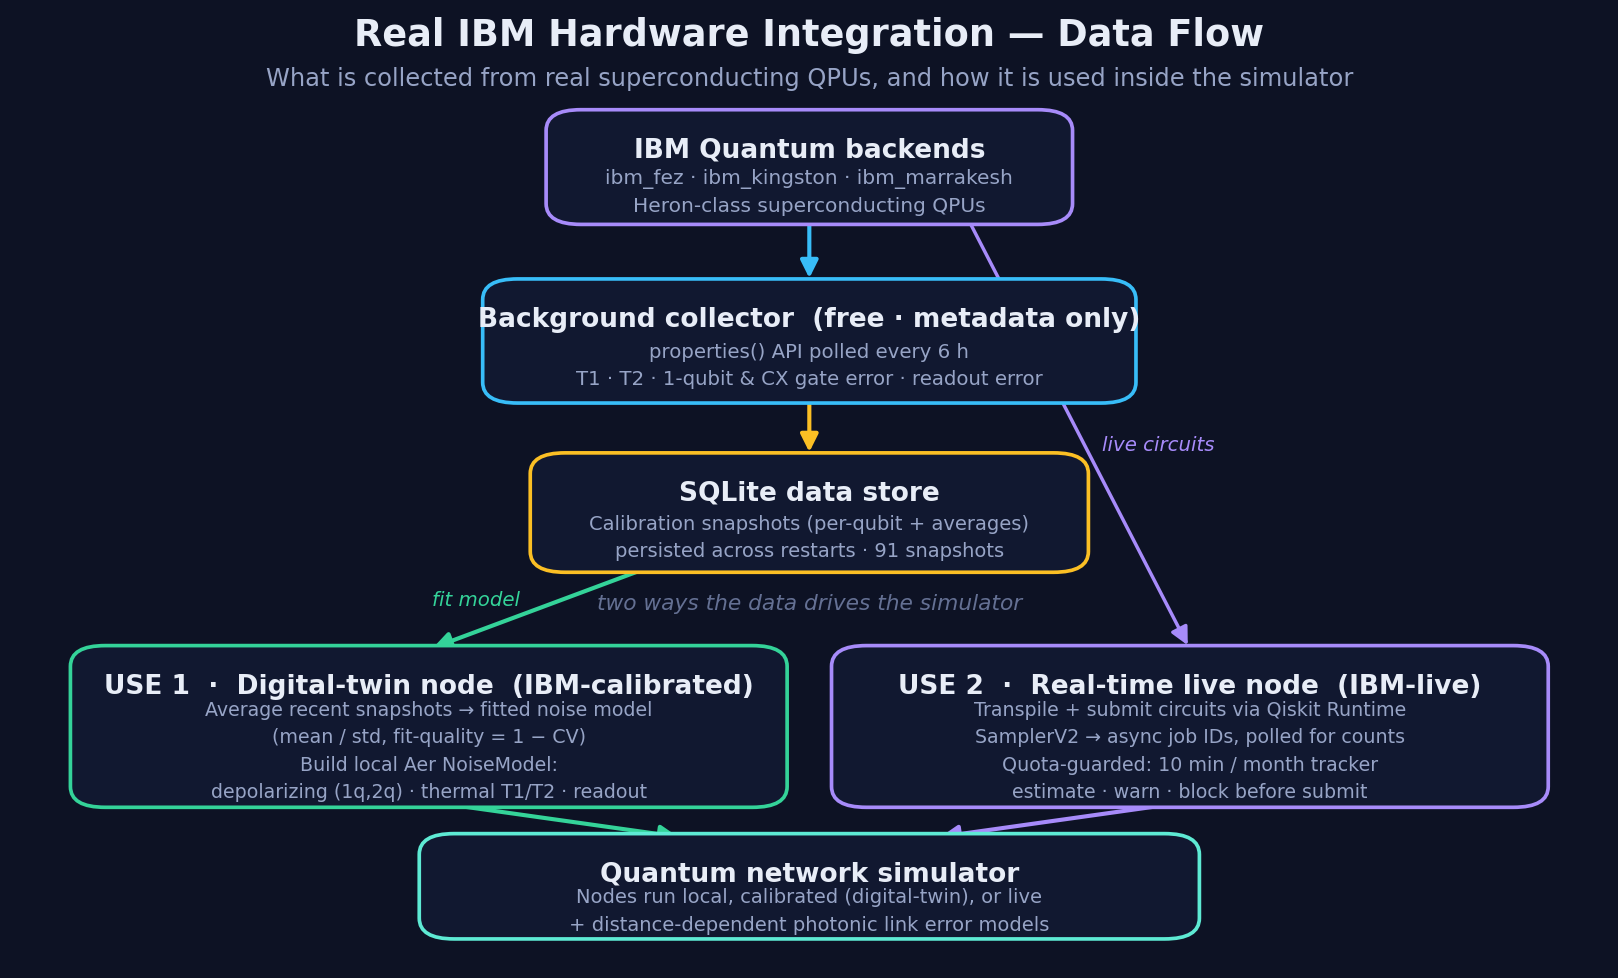
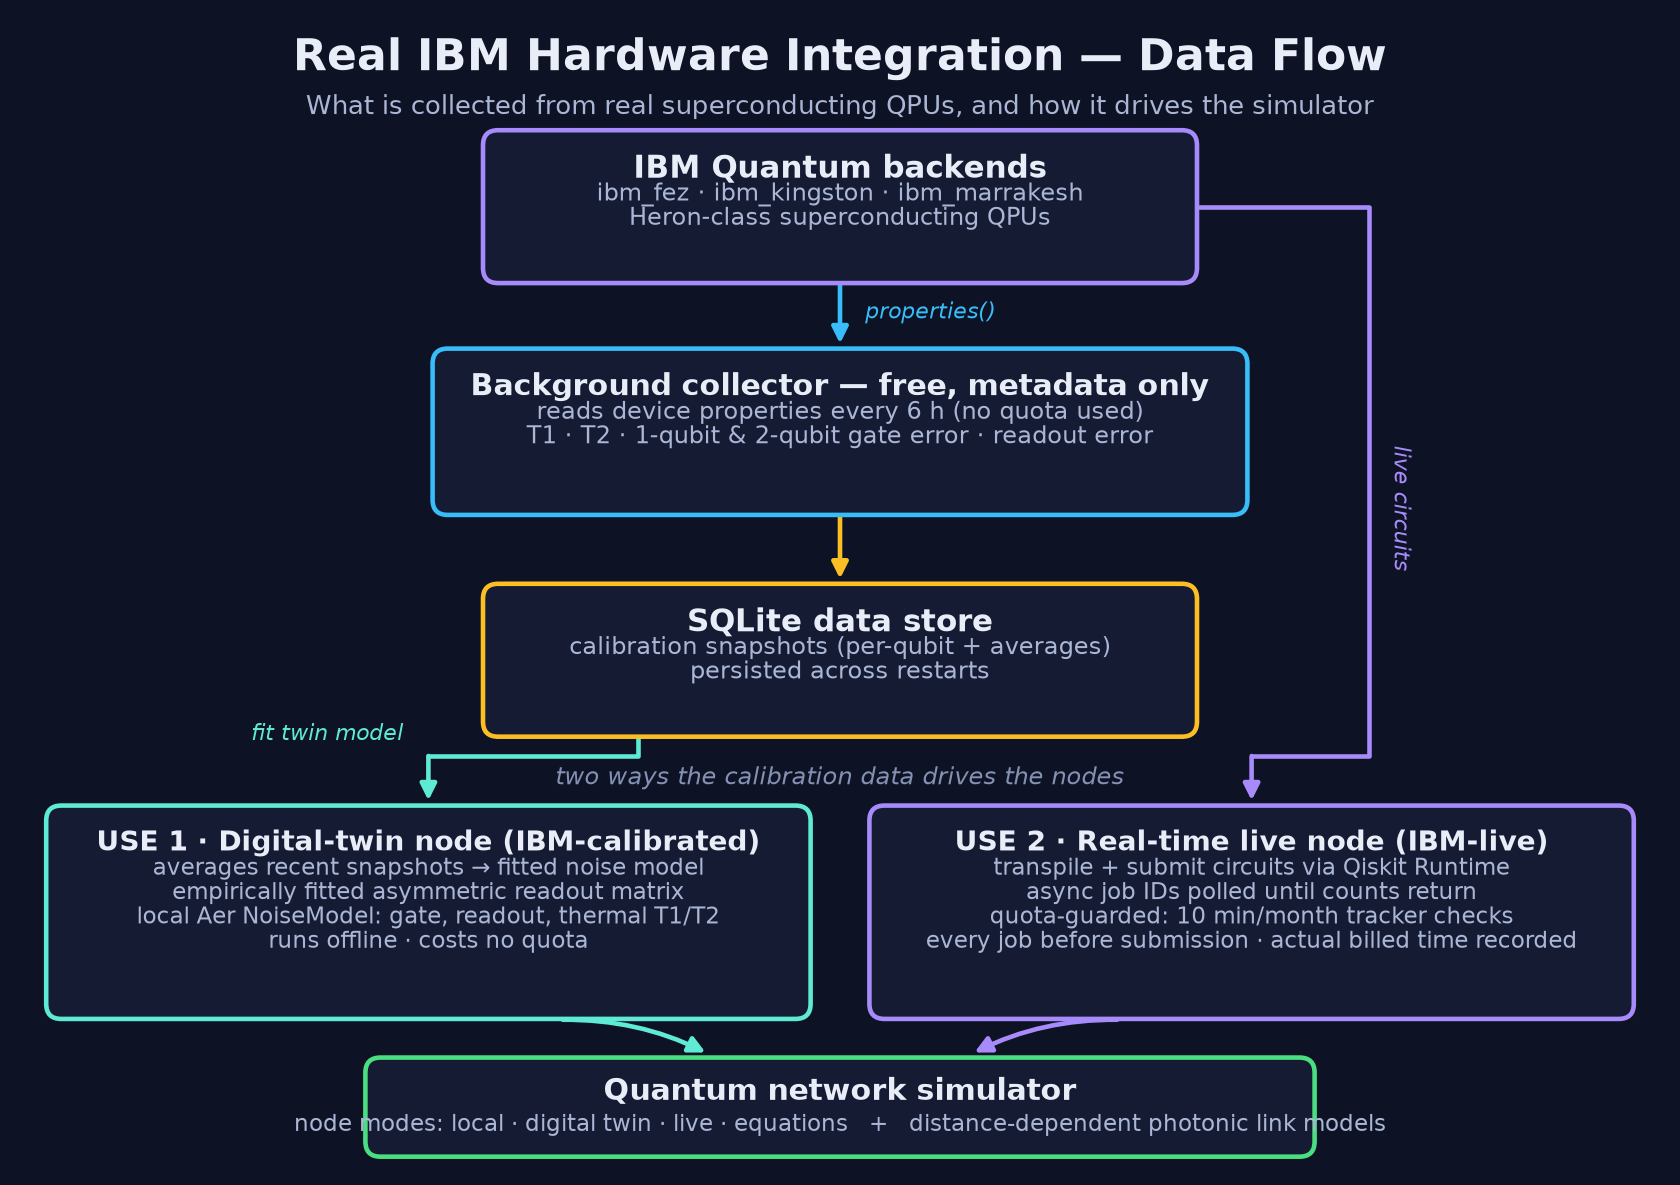
Refresh simulator section: fixed diagrams, full equations, three-mode results
- sim_ibm_flow.png: reroute the live-circuits line around (not through) the
  collector box; add the equations mode and actual-billed-time tracking.
- sim_architecture.png: four node modes (equations was missing), full names
  instead of bare abbreviations, and a glossary strip (QPU, Aer, T1/T2,
  BB84, 1550 nm, dB/km).
- Channel equations: all seven closed-form channels + composition, with a
  symbol/defaults table and an assumptions-and-limits note, matching
  docs/link-error-model.md in the simulator repo.
- New flagship results section: the July 2026 paragraph experiment on real
  ibm_marrakesh hardware vs digital twin vs equations — sent and decoded
  message, per-stage BER table and charts, and the 9-page PDF report.
- Accuracy pass: error taxonomy realigned to the app-wide node/link split
  (4 node + 8 link channels), calibration table and chart refreshed from
  the live store (old gate errors were ~100x too high), six dashboard tabs
  instead of three workspaces, data counts 296 snapshots / 313 models.

Changed region(s): [[0.0, 0.0, 0.9889, 0.9816], [0.7108, 0.1227, 0.8035, 0.2147]]

diff --git a/index.html b/index.html
@@ -262,6 +262,19 @@
   .use-card li b{color:var(--text);font-weight:700}
   .use-card code{font-family:'JetBrains Mono',monospace;font-size:12px;color:var(--brand);background:rgba(94,234,212,.08);padding:1px 6px;border-radius:5px}
 
+  /* experiment message flow */
+  .msg-flow{display:flex;flex-direction:column;gap:0;margin:0 0 22px}
+  .msg-card{background:var(--panel);border:1px solid var(--border-2);border-radius:14px;padding:18px 22px}
+  .msg-card .mh{display:flex;align-items:center;gap:10px;font-size:12px;font-weight:700;letter-spacing:.05em;text-transform:uppercase;margin-bottom:10px}
+  .msg-card.sent .mh{color:var(--brand-2)}
+  .msg-card.recv .mh{color:#4ade80}
+  .msg-card .mtext{font-family:'JetBrains Mono',monospace;font-size:14.5px;line-height:1.65;color:var(--text)}
+  .msg-card .mmeta{margin-top:10px;color:var(--faint);font-size:12.5px}
+  .msg-badge{display:inline-flex;align-items:center;gap:6px;font-size:11.5px;font-weight:700;padding:3px 10px;border-radius:999px;background:rgba(74,222,128,.12);border:1px solid rgba(74,222,128,.35);color:#4ade80;letter-spacing:.03em}
+  .msg-hop{display:flex;align-items:center;gap:12px;justify-content:center;padding:10px 0;color:var(--muted);font-size:13px}
+  .msg-hop .hopline{flex:0 0 26px;height:22px;border-left:2px dashed var(--border-2);margin-left:40px}
+  .msg-hop .hoptxt b{color:var(--text)}
+
   /* collected-data chips */
   .collect{display:grid;grid-template-columns:repeat(3,1fr);gap:14px;margin-top:6px}
   .collect .ci{background:var(--panel);border:1px solid var(--border);border-radius:12px;padding:16px 18px}
@@ -475,7 +488,7 @@
     <div class="split rev reveal" style="margin-bottom:46px">
       <div>
         <div class="clist">
-          <div class="citem"><span class="ck sim-k">N</span><div><h4>Nodes — superconducting QPUs</h4><p>Three backend modes: pure local Aer, <em>IBM-calibrated</em> (driven by real T1/T2 &amp; gate-error snapshots), and live IBM hardware submission.</p></div></div>
+          <div class="citem"><span class="ck sim-k">N</span><div><h4>Nodes — superconducting QPUs</h4><p>Four interchangeable node-error modes: pure local Aer, <em>digital twin</em> (fitted from real T1/T2 &amp; gate-error history), <em>equations</em> (rates derived from device physics), and live IBM hardware submission.</p></div></div>
           <div class="citem"><span class="ck sim-k">L</span><div><h4>Links — photonic channels</h4><p>Each link carries its own distance-dependent channel error model for fiber or free-space transmission.</p></div></div>
           <div class="citem"><span class="ck sim-k">E</span><div><h4>Custom error models</h4><p>Seven physical error types: fiber attenuation, polarization drift, phase noise, timing jitter, dark counts, environmental decoherence, chromatic dispersion.</p></div></div>
           <div class="citem"><span class="ck sim-k">P</span><div><h4>Protocols</h4><p>Entanglement distribution, quantum teleportation, BB84 QKD, and distance-sweep fidelity analysis.</p></div></div>
@@ -493,11 +506,11 @@
 
     <!-- What you can do -->
     <div class="subhead reveal"><span class="lbl">Capabilities</span><h3>What you can do with the simulator</h3><span class="ln"></span></div>
-    <p class="lead reveal" style="margin:-8px 0 26px">The simulator ships with a no-code web dashboard organised into three workspaces — <b>Simulate</b>, <b>Network</b>, and <b>IBM &amp; Data</b> — so an experiment can be configured, run, and analysed entirely from the browser.</p>
+    <p class="lead reveal" style="margin:-8px 0 26px">The simulator ships with a no-code web dashboard organised into six tabs — <b>Simulate</b>, <b>Visualization</b>, <b>Network</b>, <b>IBM Monitor</b>, <b>Digital Twin</b>, and <b>Data</b> — so an experiment can be configured, run, and analysed entirely from the browser.</p>
     <div class="feat-grid">
       <div class="card feat reveal">
         <div class="ic"><svg viewBox="0 0 24 24"><rect x="3" y="4" width="18" height="14" rx="2"/><path d="M3 9h18M8 21h8"/></svg></div>
-        <h3>No-code dashboard</h3><p>Configure, run, and visualise experiments from three workspaces — Simulate, Network, and IBM &amp; Data — no scripting required.</p>
+        <h3>No-code dashboard</h3><p>Configure, run, and visualise experiments from six tabs — including a live TensorFlow-Playground-style animation of a qubit crossing the link — no scripting required.</p>
       </div>
       <div class="card feat reveal">
         <div class="ic"><svg viewBox="0 0 24 24"><path d="M4 6h16M4 12h16M4 18h10"/><circle cx="18" cy="18" r="2"/></svg></div>
@@ -525,7 +538,7 @@
     <div class="subhead reveal"><span class="lbl">Architecture</span><h3>System architecture</h3><span class="ln"></span></div>
     <figure class="fig fig-wide reveal">
       <img src="assets/sim_architecture.png" alt="Quantum network simulator architecture diagram" loading="lazy" />
-      <figcaption><b>Two-layer design.</b> Each <b>node</b> runs in one of three modes — local Aer, IBM-calibrated (real T₁/T₂ and gate-error snapshots), or live IBM hardware — while each <b>link</b> applies a distance-dependent photonic channel model. Protocols run over the node–link pair; results and fitted models are persisted to a SQLite store and fed back into node/channel generation.</figcaption>
+      <figcaption><b>Two-layer design.</b> Each <b>node</b> runs in one of four modes — local Aer, digital twin (fitted from real calibration history), live IBM hardware, or pure equations — while each <b>link</b> applies a distance-dependent photonic channel model. Protocols run over the node–link pair; results and fitted models are persisted to a SQLite store and fed back into node/channel generation. Unfamiliar terms are spelled out in the glossary strip at the bottom of the diagram.</figcaption>
     </figure>
 
     <!-- Error taxonomy by layer -->
@@ -533,64 +546,99 @@
     <p class="lead reveal" style="margin:-8px 0 26px">Errors are organised into two layers. <b>Node-level</b> errors act on local operations at each endpoint; <b>channel-level</b> errors act during transmission and scale with distance. Every error is implemented as a Qiskit quantum channel.</p>
 
     <div class="taxo-wrap reveal" style="margin-bottom:22px">
-      <div class="taxo-head"><span class="lb node">Node layer</span><span class="h">Local operation errors</span><span class="c">applied at Alice / Bob</span></div>
+      <div class="taxo-head"><span class="lb node">Node layer</span><span class="h">Processor errors at each endpoint</span><span class="c">4 built-in types · applied at Alice / Bob</span></div>
       <table class="taxo">
         <thead><tr><th>Error type</th><th>Physical cause</th><th>Quantum channel</th></tr></thead>
         <tbody>
-          <tr><td class="nm">Gate imperfection</td><td>Control-pulse imperfections in single-qubit gates</td><td><span class="ch">depolarizing</span></td></tr>
-          <tr><td class="nm">Two-qubit crosstalk</td><td>Unwanted interactions during CNOT / CZ / SWAP</td><td><span class="ch">depolarizing</span></td></tr>
-          <tr><td class="nm">Qubit memory decoherence</td><td>Phase loss while idling in quantum memory</td><td><span class="ch">phase damping</span></td></tr>
-          <tr><td class="nm">Measurement error</td><td>Detector imperfections at readout (mostly bit-flip)</td><td><span class="ch">Pauli (X/Y/Z)</span></td></tr>
-          <tr><td class="nm">Timing jitter</td><td>Detection-timing uncertainty → loss of coherence</td><td><span class="ch">dephasing (Z)</span></td></tr>
-          <tr><td class="nm">Detector dark counts</td><td>Thermal false-positive detections</td><td><span class="ch">bit flip</span></td></tr>
-          <tr><td class="nm">Environmental decoherence</td><td>Temperature-dependent T₁ / T₂ decay</td><td><span class="ch">thermal relaxation</span></td></tr>
+          <tr><td class="nm">1-qubit gate error</td><td>Control-pulse imperfections in single-qubit gates</td><td><span class="ch">depolarizing</span></td></tr>
+          <tr><td class="nm">2-qubit gate error</td><td>Unwanted interactions during CX / CZ / SWAP</td><td><span class="ch">depolarizing</span></td></tr>
+          <tr><td class="nm">Readout error</td><td>Misassigned measurement outcomes (real devices misread |1⟩ more often than |0⟩)</td><td><span class="ch">assignment matrix</span></td></tr>
+          <tr><td class="nm">Thermal relaxation</td><td>T₁ / T₂ decay while a qubit idles (T₂ ≤ 2T₁ enforced)</td><td><span class="ch">thermal relaxation</span></td></tr>
         </tbody>
       </table>
     </div>
 
     <div class="taxo-wrap reveal">
-      <div class="taxo-head"><span class="lb chan">Channel layer</span><span class="h">Transmission / link errors</span><span class="c">distance-dependent</span></div>
+      <div class="taxo-head"><span class="lb chan">Link layer</span><span class="h">Transmission / channel errors</span><span class="c">8 built-in types · distance-dependent</span></div>
       <table class="taxo">
         <thead><tr><th>Error type</th><th>Physical cause</th><th>Quantum channel</th><th>Distance scaling</th></tr></thead>
         <tbody>
-          <tr><td class="nm">Fiber attenuation</td><td>Photon absorption &amp; scattering (~0.2 dB/km)</td><td><span class="ch">amplitude damping</span></td><td class="sc">exponential loss</td></tr>
-          <tr><td class="nm">Polarization drift</td><td>Stress-induced birefringence in fiber</td><td><span class="ch">Pauli / depolarizing</span></td><td class="sc">linear</td></tr>
+          <tr><td class="nm">Fiber attenuation</td><td>Photon absorption &amp; scattering (0.2 dB/km)</td><td><span class="ch">amplitude damping</span></td><td class="sc">exponential loss</td></tr>
+          <tr><td class="nm">Photon loss</td><td>Combined fiber loss and detector inefficiency</td><td><span class="ch">amplitude damping</span></td><td class="sc">exponential</td></tr>
+          <tr><td class="nm">Polarization drift</td><td>Stress-induced birefringence in fiber</td><td><span class="ch">Pauli (X/Y/Z)</span></td><td class="sc">linear</td></tr>
           <tr><td class="nm">Phase noise</td><td>Path-length &amp; thermal fluctuations</td><td><span class="ch">phase damping</span></td><td class="sc">linear (× T)</td></tr>
-          <tr><td class="nm">Chromatic dispersion</td><td>Wavelength-dependent propagation velocity</td><td><span class="ch">dephasing</span></td><td class="sc">linear</td></tr>
-          <tr><td class="nm">Splice / connector loss</td><td>Photon loss at fiber joints (~0.1 / km)</td><td><span class="ch">amplitude damping</span></td><td class="sc">per splice</td></tr>
-          <tr><td class="nm">WDM crosstalk</td><td>Leakage from adjacent wavelength channels</td><td><span class="ch">depolarizing</span></td><td class="sc">constant</td></tr>
-          <tr><td class="nm">Quantum repeater noise</td><td>Noise added at repeater stations</td><td><span class="ch">depolarizing</span></td><td class="sc">per repeater</td></tr>
-          <tr><td class="nm">Atmospheric turbulence</td><td>Free-space phase noise (satellite / wireless)</td><td><span class="ch">phase damping</span></td><td class="sc">exponential</td></tr>
+          <tr><td class="nm">Timing jitter</td><td>Detection-timing uncertainty → loss of coherence</td><td><span class="ch">dephasing (Z)</span></td><td class="sc">constant (× jitter)</td></tr>
+          <tr><td class="nm">Chromatic dispersion</td><td>Wavelength-dependent propagation velocity broadens pulses</td><td><span class="ch">dephasing</span></td><td class="sc">quadratic, saturating</td></tr>
+          <tr><td class="nm">Detector dark counts</td><td>Thermal false-positive detections</td><td><span class="ch">bit flip</span></td><td class="sc">constant</td></tr>
+          <tr><td class="nm">Environmental decoherence</td><td>Temperature-degraded T₁ / T₂ over the transit time</td><td><span class="ch">thermal relaxation</span></td><td class="sc">linear (transit time)</td></tr>
         </tbody>
       </table>
     </div>
-    <p class="taxo-note reveal">All error types are built on five primitive channels — <code>pauli</code>, <code>depolarizing</code>, <code>amplitude_damping</code>, <code>phase_damping</code>, <code>thermal_relaxation</code> — and users can define additional custom errors at either layer with their own probability and distance scaling (<code>linear</code>, <code>exponential</code>, <code>constant</code>, per-splice, or per-repeater).</p>
+    <p class="taxo-note reveal">This node/link split is the app-wide taxonomy: every chart, comparison, and report categorises errors the same way. All types are built on five primitive channels — <code>pauli</code>, <code>depolarizing</code>, <code>amplitude_damping</code>, <code>phase_damping</code>, <code>thermal_relaxation</code> — and users can define additional custom errors at either layer (splice loss, WDM crosstalk, repeater noise, an eavesdropper model, …) with their own probability and distance scaling (<code>linear</code>, <code>exponential</code>, <code>constant</code>, per-splice, or per-repeater), from the UI or a config file.</p>
 
     <!-- Error-model equations -->
     <div class="subhead reveal"><span class="lbl">Error models</span><h3>Channel error-model equations</h3><span class="ln"></span></div>
-    <p class="lead reveal" style="margin:-8px 0 26px">Every link error is a physically-motivated quantum channel whose strength scales with distance, temperature, and hardware parameters. These are the exact models implemented in the simulator.</p>
+    <p class="lead reveal" style="margin:-8px 0 26px">Every link error is a physically-motivated quantum channel whose strength is an explicit, closed-form function of the link's physical parameters. These are the exact expressions implemented in the simulator — no hidden fitting; change a parameter and every probability follows.</p>
+
+    <div class="tbl-wrap reveal" style="margin-bottom:22px">
+      <table class="cal">
+        <thead><tr><th>Symbol</th><th>Physical parameter</th><th>Default</th><th>Meaning</th></tr></thead>
+        <tbody>
+          <tr><td class="qpu">L</td><td style="text-align:left">distance_km</td><td class="mono">50 km</td><td style="text-align:left">Link length</td></tr>
+          <tr><td class="qpu">α</td><td style="text-align:left">fiber_loss_db_per_km</td><td class="mono">0.2 dB/km</td><td style="text-align:left">Attenuation of telecom fiber at 1550 nm</td></tr>
+          <tr><td class="qpu">η<sub>d</sub></td><td style="text-align:left">detector_efficiency</td><td class="mono">0.9</td><td style="text-align:left">Single-photon detector efficiency</td></tr>
+          <tr><td class="qpu">p<sub>dark</sub></td><td style="text-align:left">dark_count_rate</td><td class="mono">10⁻⁶</td><td style="text-align:left">False-detection probability per window</td></tr>
+          <tr><td class="qpu">j</td><td style="text-align:left">timing_jitter_ns</td><td class="mono">50 ns</td><td style="text-align:left">Detector timing uncertainty</td></tr>
+          <tr><td class="qpu">T<sub>K</sub></td><td style="text-align:left">temperature_k</td><td class="mono">300 K</td><td style="text-align:left">Operating temperature</td></tr>
+          <tr><td class="qpu">r</td><td style="text-align:left">polarization_drift_rate</td><td class="mono">0.002 /km</td><td style="text-align:left">Polarization drift per kilometre</td></tr>
+        </tbody>
+        <caption>The seven physical inputs. Every channel probability below is derived from these — they are the only knobs.</caption>
+      </table>
+    </div>
+
     <div class="eq-grid">
       <div class="eq-card reveal">
-        <div class="eq-t"><span class="dot" style="background:var(--c-mine)"></span>Fiber attenuation &amp; amplitude damping</div>
-        <div class="eq-math">$$\eta(L)=10^{-\alpha L/10},\qquad p_\text{loss}=1-\eta\,\eta_\text{det}$$ $$\gamma_\text{eff}=\min\!\left(0.5,\ 0.3\sqrt{p_\text{loss}}\right)$$ $$K_0=\begin{pmatrix}1&0\\[2pt]0&\sqrt{1-\gamma_\text{eff}}\end{pmatrix},\ K_1=\begin{pmatrix}0&\sqrt{\gamma_\text{eff}}\\[2pt]0&0\end{pmatrix}$$</div>
-        <div class="eq-d">Photon survival through single-mode fiber, with an effective amplitude-damping channel on received qubits. <code>α = 0.2 dB/km</code>, <code>η_det = 0.9</code>.</div>
+        <div class="eq-t"><span class="dot" style="background:var(--c-mine)"></span>1 · Fiber attenuation → amplitude damping</div>
+        <div class="eq-math">$$T=10^{-\alpha L/10},\qquad p_\text{loss}=1-T\,\eta_d$$ $$\gamma_\text{eff}=\min\!\left(0.5,\ 0.3\sqrt{p_\text{loss}}\right)$$ $$K_0=\begin{pmatrix}1&0\\[2pt]0&\sqrt{1-\gamma_\text{eff}}\end{pmatrix},\ K_1=\begin{pmatrix}0&\sqrt{\gamma_\text{eff}}\\[2pt]0&0\end{pmatrix}$$</div>
+        <div class="eq-d">Beer–Lambert survival through single-mode fiber. Photon loss in a real network is <em>heralded</em> (a lost photon is a missed detection, not a wrong bit), so an <em>effective</em> amplitude-damping channel with Kraus operators K₀, K₁ is applied to the qubits that do arrive.</div>
       </div>
       <div class="eq-card reveal">
-        <div class="eq-t"><span class="dot" style="background:var(--c-survey)"></span>Polarization drift (depolarizing)</div>
+        <div class="eq-t"><span class="dot" style="background:var(--c-survey)"></span>2 · Polarization drift → Pauli channel</div>
         <div class="eq-math">$$p_\text{pol}=\min\!\left(0.5,\ r\,L\right)$$ $$\mathcal{E}(\rho)=(1-p_\text{pol})\,\rho+\frac{p_\text{pol}}{3}\big(X\rho X+Y\rho Y+Z\rho Z\big)$$</div>
-        <div class="eq-d">Stress-induced birefringence rotates polarization with distance, modeled as symmetric Pauli noise. Drift rate <code>r = 0.002 /km</code>.</div>
+        <div class="eq-d">Stress-induced birefringence rotates polarization as the photon travels, modeled as symmetric Pauli noise (equal X, Y, Z probability) growing linearly with distance and clamped at ½ (fully mixed).</div>
       </div>
       <div class="eq-card reveal">
-        <div class="eq-t"><span class="dot" style="background:var(--brand-2)"></span>Phase noise (phase damping)</div>
-        <div class="eq-math">$$\lambda=\min\!\left(0.3,\ \kappa\,T\,L\right)$$ $$K_0=\begin{pmatrix}1&0\\[2pt]0&\sqrt{1-\lambda}\end{pmatrix},\ K_1=\begin{pmatrix}0&0\\[2pt]0&\sqrt{\lambda}\end{pmatrix}$$</div>
-        <div class="eq-d">Loss of phase coherence growing with temperature and distance. <code>κ = 10⁻⁶ /(K·km)</code>, <code>T = 300 K</code>.</div>
+        <div class="eq-t"><span class="dot" style="background:var(--brand-2)"></span>3 · Phase noise → phase damping</div>
+        <div class="eq-math">$$\lambda=\min\!\left(0.3,\ 10^{-6}\,T_K\,L\right)$$ $$K_0=\begin{pmatrix}1&0\\[2pt]0&\sqrt{1-\lambda}\end{pmatrix},\ K_1=\begin{pmatrix}0&0\\[2pt]0&\sqrt{\lambda}\end{pmatrix}$$</div>
+        <div class="eq-d">Path-length and thermal fluctuations destroy phase coherence without flipping the bit value — growing with both temperature and distance.</div>
       </div>
       <div class="eq-card reveal">
-        <div class="eq-t"><span class="dot" style="background:var(--c-sim)"></span>Timing jitter &amp; thermal relaxation</div>
-        <div class="eq-math">$$p_z=\min\!\left(0.2,\ 10^{-5}\,\tau_j\right),\quad \mathcal{E}(\rho)=(1-p_z)\rho+p_z\,Z\rho Z$$ $$T_2\le 2T_1,\qquad p_\text{err}=1-e^{-t/T_1}$$</div>
-        <div class="eq-d">Detector timing uncertainty causes pure dephasing; environmental decoherence uses combined T₁/T₂ relaxation. <code>τⱼ = 50 ns</code>.</div>
+        <div class="eq-t"><span class="dot" style="background:var(--c-sim)"></span>4 · Timing jitter → dephasing</div>
+        <div class="eq-math">$$p_Z=\min\!\left(0.2,\ 10^{-5}\,j\right)$$ $$\mathcal{E}(\rho)=(1-p_Z)\,\rho+p_Z\,Z\rho Z$$</div>
+        <div class="eq-d">Uncertainty in <em>when</em> the photon is detected translates into pure dephasing. Depends on the detector's jitter <code>j</code>, not on distance.</div>
+      </div>
+      <div class="eq-card reveal">
+        <div class="eq-t"><span class="dot" style="background:#f472b6"></span>5 · Detector dark counts → bit flip</div>
+        <div class="eq-math">$$\mathcal{E}(\rho)=(1-p_\text{dark})\,\rho+p_\text{dark}\,X\rho X$$</div>
+        <div class="eq-d">A thermal false click registers the wrong outcome — a bit-flip channel with the detector's dark-count probability, independent of distance.</div>
+      </div>
+      <div class="eq-card reveal">
+        <div class="eq-t"><span class="dot" style="background:var(--c-survey)"></span>6 · Environmental decoherence → thermal relaxation</div>
+        <div class="eq-math">$$\tau=\tfrac{T_K}{300},\quad T_1=\tfrac{100\,\mu s}{\tau},\quad T_2=\min\!\left(\tfrac{50\,\mu s}{\tau},\,2T_1\right)$$ $$t_\text{transit}=50\,\text{ns/km}\times L$$</div>
+        <div class="eq-d">Base coherence times degraded by temperature, applied over a transit time that grows with distance (including buffering overhead) via Qiskit's <code>thermal_relaxation_error(T₁, T₂, t)</code>.</div>
+      </div>
+      <div class="eq-card reveal">
+        <div class="eq-t"><span class="dot" style="background:var(--brand-2)"></span>7 · Chromatic dispersion → dephasing</div>
+        <div class="eq-math">$$\Delta\tau=D\,\Delta\lambda\,L,\qquad p_\text{disp}=\min\!\left(0.3,\ \left(\tfrac{\Delta\tau}{w}\right)^{2}\right)$$</div>
+        <div class="eq-d">Different wavelengths travel at different speeds, broadening the pulse by Δτ relative to the ≈1 ns detector coherence window <code>w</code>. Dispersion coefficient <code>D = 17 ps/(nm·km)</code>, source linewidth <code>Δλ = 0.1 nm</code>.</div>
+      </div>
+      <div class="eq-card reveal">
+        <div class="eq-t"><span class="dot" style="background:var(--c-mine)"></span>Composition — one channel per hop</div>
+        <div class="eq-math">$$\mathcal{E}_\text{link}=\mathcal{E}_7\circ\mathcal{E}_6\circ\cdots\circ\mathcal{E}_1$$ $$\mathcal{E}_\text{path}=\mathcal{E}_\text{hop}^{(N-1)}\circ\cdots\circ\mathcal{E}_\text{hop}^{(1)}$$</div>
+        <div class="eq-d">All seven channels are composed in sequence into one CPTP transmission error per link, bound to the <code>id</code> gate (the simulator's convention for "in transit"). Multi-hop paths compose one such error per hop.</div>
       </div>
     </div>
+    <p class="taxo-note reveal" style="margin-top:18px"><b style="color:var(--text)">Assumptions &amp; limits.</b> Derived probabilities are clamped to physically sensible saturation values (shown as <code>min(·)</code> above). Photon loss is treated as heralded, so attenuation acts as an effective damping on received qubits rather than as erasure. The 90% detector efficiency gives every link a ~10% amplitude-damping floor even at 0 km, and the reported Bell fidelity is the Z-basis correlation P(00)+P(11) — a phase-insensitive upper bound on true state fidelity. At the default 50 km these expressions give transmission T = 0.100, photon loss 0.910, polarization error 0.100, and phase noise 0.015 — the channel is dominated by attenuation, as expected physically.</p>
 
     <!-- IBM hardware integration -->
     <div class="subhead reveal"><span class="lbl">Hardware</span><h3>Real IBM hardware integration</h3><span class="ln"></span></div>
@@ -618,7 +666,7 @@
         <ul>
           <li>Averages up to <b>20 recent calibration snapshots</b> into a stable fitted noise model (mean, std, min/max per parameter).</li>
           <li>Reports a <b>fit-quality</b> score of <code>1 − CV</code> (coefficient of variation) — lower device drift means a more reliable twin.</li>
-          <li>Builds a local Aer <code>NoiseModel</code>: depolarizing on 1- and 2-qubit gates, <b>thermal relaxation</b> (T₁/T₂) on idle, and a readout-error matrix.</li>
+          <li>Builds a local Aer <code>NoiseModel</code>: depolarizing on 1- and 2-qubit gates, <b>thermal relaxation</b> (T₁/T₂) on idle, and an <b>empirically fitted asymmetric readout matrix</b> — real devices misread |1⟩ more often than |0⟩, and the twin reproduces that.</li>
           <li>Runs <b>entirely offline with no quota</b> — a faithful stand-in for the real QPU inside larger network simulations.</li>
         </ul>
       </div>
@@ -628,26 +676,84 @@
         <ul>
           <li>Transpiles the circuit for the target backend and submits it via <b>Qiskit Runtime</b> <code>SamplerV2</code>.</li>
           <li>Jobs run <b>asynchronously</b> — the node returns a job ID that is polled until real measurement counts return.</li>
-          <li>Every submission is <b>quota-guarded</b> by a usage tracker against the 10 min/month budget: it estimates, warns, and blocks before spending time.</li>
+          <li>Every submission is <b>quota-guarded</b> by a usage tracker against the 10 min/month budget: it estimates, warns, and blocks before spending time — then records the actually billed seconds after each job.</li>
           <li>Falls back gracefully: <b>live → stored snapshot → typical defaults</b>, so simulations never stall when hardware is unreachable.</li>
         </ul>
       </div>
     </div>
 
-    <!-- Graphs -->
-    <div class="subhead reveal"><span class="lbl">Results</span><h3>Simulation results</h3><span class="ln"></span></div>
+    <!-- Flagship experiment: three-mode comparison -->
+    <div class="subhead reveal"><span class="lbl">Results</span><h3>Simulation results — real hardware vs digital twin vs equations</h3><span class="ln"></span></div>
+    <p class="lead reveal" style="margin:-8px 0 26px">The flagship validation experiment (July 2026): the <b>same message, same pipeline, same 50 km link — run three times</b>, changing only where the node errors come from. Once on <b>real IBM hardware</b> (both endpoints executed on the <code>ibm_marrakesh</code> processor), once on the <b>digital twin</b>, and once on the <b>pure-equations model</b>. If the free models are good stand-ins for the real machine, all three runs should tell the same story — and they do.</p>
+
+    <div class="msg-flow reveal">
+      <div class="msg-card sent">
+        <div class="mh">Sent from node A · 149 characters → 1,192 bits</div>
+        <div class="mtext">"Quantum networks will link distant processors into one machine. This note crossed fifty kilometres of simulated fibre between two real quantum chips."</div>
+        <div class="mmeta">Each bit encoded as |0⟩ or |1⟩ and measured 256 times (256 "shots") — first on node A's real processor, then re-prepared after the fiber channel on node B's.</div>
+      </div>
+      <div class="msg-hop"><span class="hopline"></span><span class="hoptxt">encoded on the <b>real ibm_marrakesh QPU</b> (node A) → through the <b>50 km simulated fiber</b> → re-prepared &amp; measured on the <b>real QPU</b> (node B) → majority vote per bit</span></div>
+      <div class="msg-card recv">
+        <div class="mh">Decoded at node B — real IBM hardware <span class="msg-badge">✓ 0 of 149 characters wrong</span></div>
+        <div class="mtext">"Quantum networks will link distant processors into one machine. This note crossed fifty kilometres of simulated fibre between two real quantum chips."</div>
+        <div class="mmeta">The digital-twin and equations runs decoded the identical paragraph with zero character errors too. IBM job IDs <code style="font-size:11px">d98hqmsqp3as739svodg</code> · <code style="font-size:11px">d98hqv0tcv6s73dm5gkg</code>, 10 s of quantum time billed each.</div>
+      </div>
+    </div>
+
+    <div class="tbl-wrap reveal" style="margin-bottom:8px">
+      <table class="cal">
+        <thead>
+          <tr><th>Node-error source</th><th>Decoded message</th><th>Raw BER after node A</th><th>Raw BER end-to-end</th><th>Transmission fidelity</th></tr>
+        </thead>
+        <tbody>
+          <tr><td class="qpu">Real IBM hardware</td><td class="mono">perfect (149/149 chars)</td><td class="mono">0.81%</td><td class="mono">20.27%</td><td class="mono">0.797</td></tr>
+          <tr><td class="qpu">Digital twin</td><td class="mono">perfect (149/149 chars)</td><td class="mono">1.22%</td><td class="mono">20.99%</td><td class="mono">0.790</td></tr>
+          <tr><td class="qpu">Equations model</td><td class="mono">perfect (149/149 chars)</td><td class="mono">1.08%</td><td class="mono">20.84%</td><td class="mono">0.792</td></tr>
+        </tbody>
+        <caption>Raw BER = the fraction of the 256×1,192 individual shots that read back wrong (before majority voting). The free models land within 0.7 percentage points of the real machine end-to-end — and every mode still decodes the paragraph perfectly, because a ~20% per-shot error rate is comfortably corrected by majority vote over 256 shots.</caption>
+      </table>
+    </div>
+
+    <figure class="fig fig-wide reveal" style="margin:20px 0">
+      <img src="assets/exp_stage_ber.png" alt="Raw bit-error rate after each pipeline stage for hardware, twin, and equations" loading="lazy" />
+      <figcaption><b>Where the errors come from.</b> Raw per-shot bit-error rate after each stage of the pipeline. The node stages (real quantum processors) contribute ≈1% each; the 50 km fiber link dominates with ≈19%, identically in all three runs — so any difference between the bars is attributable purely to the node-error source. The twin and equations bars track the hardware bars closely at every stage.</figcaption>
+    </figure>
+    <div class="fig-grid" style="margin-bottom:20px">
+      <figure class="fig reveal">
+        <img src="assets/exp_fidelity.png" alt="Transmission fidelity per mode" loading="lazy" />
+        <figcaption><b>Transmission fidelity.</b> The fraction of shots that arrive correct, end-to-end: hardware 0.797, twin 0.790, equations 0.792 — three independent error sources, one consistent answer.</figcaption>
+      </figure>
+      <figure class="fig reveal">
+        <img src="assets/exp_error_asymmetry.png" alt="Sent-0 vs sent-1 error rates per mode" loading="lazy" />
+        <figcaption><b>Error asymmetry.</b> Real fiber loss affects |1⟩ far more than |0⟩ (a lost photon reads as 0), and real readout misreads |1⟩ more often. All three modes reproduce this strong sent-1 vs sent-0 asymmetry — the twin via its empirically fitted asymmetric readout matrix.</figcaption>
+      </figure>
+    </div>
+    <div class="fig-grid" style="margin-bottom:20px">
+      <figure class="fig reveal">
+        <img src="assets/exp_discrepancy.png" alt="Twin and equations discrepancy vs hardware per stage" loading="lazy" />
+        <figcaption><b>Model discrepancy vs the real machine.</b> Per-stage difference from hardware: both models stay within ≈1 percentage point at every stage. The residual gap comes from effects no average model captures — the transpiler placing circuits on the device's better-than-average qubits, and device drift between calibration and run time.</figcaption>
+      </figure>
+      <figure class="fig reveal">
+        <img src="assets/exp_per_bit_p1.png" alt="Per-bit P(1) at each stage across all 1192 bits" loading="lazy" />
+        <figcaption><b>All 1,192 bits, raw.</b> P(measured 1) for every single bit at each stage — dense by design, nothing filtered. After the link (bottom panel), sent-1 bits cluster at ≈0.68 and sent-0 bits at ≈0.05: both sides stay on the right side of the 0.5 majority-vote threshold, which is why the paragraph decodes perfectly despite the noise.</figcaption>
+      </figure>
+    </div>
+    <p class="taxo-note reveal" style="margin-bottom:46px">Full methodology, control variables, and per-stage analysis: <a href="assets/exp_report.pdf" style="color:var(--brand);font-weight:600" target="_blank" rel="noopener">download the 9-page experiment report (PDF)</a>. Raw per-shot records for all three runs are persisted in the simulator's data store.</p>
+
+    <!-- Channel & calibration graphs -->
+    <div class="subhead reveal"><span class="lbl">Results</span><h3>Channel physics &amp; hardware calibration</h3><span class="ln"></span></div>
     <figure class="fig fig-wide reveal" style="margin-bottom:20px">
       <img src="assets/sim_channel.png" alt="Fiber transmission and channel error probabilities vs distance" loading="lazy" />
-      <figcaption><b>Channel physics.</b> Photon transmission decays exponentially with fiber length (≈10% at 50 km, ≈1% at 100 km), while the effective amplitude-damping, polarization-drift, and phase-noise error probabilities grow and saturate with distance.</figcaption>
+      <figcaption><b>Channel physics.</b> Photon transmission decays exponentially with fiber length (10% at 50 km, 1% at 100 km), while the effective amplitude-damping, polarization-drift, and phase-noise error probabilities grow and saturate with distance — exactly the closed-form equations above, plotted.</figcaption>
     </figure>
     <div class="fig-grid">
       <figure class="fig reveal">
         <img src="assets/sim_fidelity_qber.png" alt="Bell-state fidelity and BB84 QBER vs distance" loading="lazy" />
-        <figcaption><b>Protocol performance (real Aer runs).</b> Bell-state fidelity for entanglement distribution (8,192 shots) and BB84 QBER across an 11-point distance sweep. A secure key is only obtained while QBER stays below the 11% threshold — here up to ≈10 km under the default noise budget.</figcaption>
+        <figcaption><b>Protocol performance (real Aer runs).</b> Bell-state fidelity for entanglement distribution (8,192 shots) and BB84 QBER across an 11-point distance sweep. A secure key is only obtained while QBER stays below the 11% threshold — crossed between ≈15–20 km under the default noise budget.</figcaption>
       </figure>
       <figure class="fig reveal">
         <img src="assets/sim_calibration.png" alt="IBM hardware calibration: coherence and error rates" loading="lazy" />
-        <figcaption><b>Real hardware calibration.</b> Coherence times (T₁/T₂) and gate/readout error rates captured from three IBM Heron-class QPUs and used to drive the IBM-calibrated node mode.</figcaption>
+        <figcaption><b>Real hardware calibration.</b> Coherence times (T₁/T₂) and gate/readout error rates from the latest live snapshots of three IBM Heron-class QPUs — the data that drives the digital-twin node mode.</figcaption>
       </figure>
     </div>
 
@@ -656,14 +762,14 @@
     <div class="tbl-wrap reveal">
       <table class="cal">
         <thead>
-          <tr><th>Backend</th><th>Qubits</th><th>T₁ (µs)</th><th>T₂ (µs)</th><th>1-qubit err</th><th>2-qubit (CX) err</th><th>Readout err</th></tr>
+          <tr><th>Backend</th><th>Qubits</th><th>T₁ <span style="text-transform:none">(µs)</span></th><th>T₂ <span style="text-transform:none">(µs)</span></th><th>1-qubit err</th><th>2-qubit (CX) err</th><th>Readout err</th></tr>
         </thead>
         <tbody>
-          <tr><td class="qpu">ibm_fez</td><td class="mono">156</td><td class="mono">145.4</td><td class="mono">104.9</td><td class="mono">1.32%</td><td class="mono">1.00%</td><td class="mono">2.23%</td></tr>
-          <tr><td class="qpu">ibm_kingston</td><td class="mono">156</td><td class="mono">246.0</td><td class="mono">165.9</td><td class="mono">2.61%</td><td class="mono">1.00%</td><td class="mono">1.65%</td></tr>
-          <tr><td class="qpu">ibm_marrakesh</td><td class="mono">156</td><td class="mono">190.8</td><td class="mono">119.0</td><td class="mono">2.61%</td><td class="mono">1.00%</td><td class="mono">3.12%</td></tr>
+          <tr><td class="qpu">ibm_fez</td><td class="mono">156</td><td class="mono">134.5</td><td class="mono">103.5</td><td class="mono">0.031%</td><td class="mono">0.28%</td><td class="mono">0.78%</td></tr>
+          <tr><td class="qpu">ibm_kingston</td><td class="mono">156</td><td class="mono">244.2</td><td class="mono">158.7</td><td class="mono">0.024%</td><td class="mono">0.19%</td><td class="mono">0.78%</td></tr>
+          <tr><td class="qpu">ibm_marrakesh</td><td class="mono">156</td><td class="mono">176.2</td><td class="mono">109.8</td><td class="mono">0.035%</td><td class="mono">0.27%</td><td class="mono">1.06%</td></tr>
         </tbody>
-        <caption>Most-recent live-hardware snapshot per backend, from 91 calibration snapshots and 94 fitted noise models (mean fit quality 0.98) in the local SQLite store.</caption>
+        <caption>Most-recent live-hardware snapshot per backend (July 2026), from 296 calibration snapshots and 313 fitted noise models in the local SQLite store. Errors are per-gate / per-readout probabilities in percent.</caption>
       </table>
     </div>
   </div>
@@ -689,9 +795,9 @@
     <div class="data-split-label sim reveal"><span>Quantum simulator</span><span class="ln"></span></div>
     <div class="data-grid">
       <div class="card data-card sim reveal"><div class="top"><span class="tg">Hardware</span></div><div class="big" data-count="3">0</div><div class="desc">real IBM superconducting QPUs</div></div>
-      <div class="card data-card sim reveal"><div class="top"><span class="tg">Calibration</span></div><div class="big" data-count="91">0</div><div class="desc">live calibration snapshots</div></div>
-      <div class="card data-card sim reveal"><div class="top"><span class="tg">Models</span></div><div class="big" data-count="94">0</div><div class="desc">fitted noise models</div></div>
-      <div class="card data-card sim reveal"><div class="top"><span class="tg">Error types</span></div><div class="big" data-count="7">0</div><div class="desc">custom channel error models</div></div>
+      <div class="card data-card sim reveal"><div class="top"><span class="tg">Calibration</span></div><div class="big" data-count="296">0</div><div class="desc">live calibration snapshots</div></div>
+      <div class="card data-card sim reveal"><div class="top"><span class="tg">Models</span></div><div class="big" data-count="313">0</div><div class="desc">fitted noise models</div></div>
+      <div class="card data-card sim reveal"><div class="top"><span class="tg">Error types</span></div><div class="big" data-count="12">0</div><div class="desc">built-in error channels (8 link + 4 node) + custom</div></div>
     </div>
     <p class="map-note" style="margin-top:26px">Stored in a local ChromaDB vector store (mining) and a SQLite data store (simulator). Snapshot from the development environment.</p>
   </div>

diff --git a/README.md b/README.md
@@ -20,6 +20,8 @@ contains **only** the static marketing site, published via GitHub Pages.
 .
 ├── index.html                # Single-file landing page (self-contained CSS/JS)
 ├── assets/architecture.png   # QuantumPaperMiner system architecture diagram
+├── assets/sim_*.png          # Simulator diagrams & result charts
+├── assets/exp_*.png|pdf      # Three-mode hardware-vs-twin-vs-equations experiment
 ├── robots.txt                # Opt out of search-engine indexing
 └── .nojekyll                 # Serve files as-is (skip Jekyll processing)
 ```